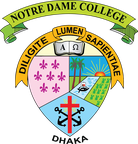
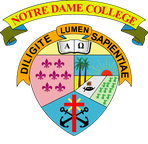
Footer, header and maps polish
- Footer about 60% of its old height (desktop 390 to 222 px, phone 840
  to 510 px): smaller logos, tighter spacing, shorter map, compact phone
  layout with the logos beside the club name.
- Copyright without the year; no street address under the club name.
- College crest is the new transparent version, with no tile behind it.
- Instagram handle shows without the @ (footer and Contact page).
- Footer map in dark mode on every page except NESS X and Photosphere,
  which keep their own tints.
- Header gets a soft shadow once you scroll, 40% of each page's own dark
  colour (navy, NESS blue, Photosphere navy).
- Phone menu button has no box around the three bars.
- The "Questions" sections on the NESS X and Join pages are removed.

Claude-Session: https://claude.ai/code/session_017bqCLVvJCNAmCL3csxSVkM

diff --git a/app/globals.css b/app/globals.css
@@ -936,7 +936,6 @@ body:has(.ness-three) .ice-btn::after { background: linear-gradient(105deg, tran
 /* Last pieces on this page: placeholders, the skip link and the college crest tile */
 body:has(.ness-three) .todo { color: #0a4a70; border-bottom-color: #0a4a70; }
 body:has(.ness-three) .skip-link { background: #0a4a70; color: #ebf5f9; }
-body:has(.ness-three) .crest-tile { background: #ebf5f9; }
 
 /* Register page form in the same three colours (Mahmud, 20 Nov 2026, trial) */
 body:has(.ness-three) main .form :is(input:not([type="checkbox"]):not([type="radio"]), select, textarea) {
@@ -1029,7 +1028,6 @@ body:has(.ps-four) .todo { color: #3ae3d1; border-bottom-color: #3ae3d1; }
 body:has(.ps-four) .site-header { --line: rgba(29, 95, 138, 0.6); --header-glass: rgba(11, 28, 51, 0.82); --header-menu: rgba(11, 28, 51, 0.5); --header-solid: #0b1c33; }
 body:has(.ps-four) .site-footer { background: rgba(11, 28, 51, 0.6); border-top-color: #1d5f8a; }
 @media (prefers-reduced-transparency: reduce) { body:has(.ps-four) .site-footer { background: #0b1c33; } }
-body:has(.ps-four) .crest-tile { background: #e2f2fc; }
 body:has(.ps-four) .skip-link { background: #3ae3d1; color: #0b1c33; }
 body:has(.ps-four) .ice-btn {
   background: linear-gradient(135deg, #e2f2fc 0%, #3ae3d1 50%, #e2f2fc 100%);
@@ -1105,3 +1103,46 @@ body:has(.ps-bg) .footer-map-pin::before {
   0% { transform: scale(0.6); opacity: 0.9; }
   100% { transform: scale(1.8); opacity: 0; }
 }
+
+/* ---------------------------------------------------------------------------------------------
+   23 Nov 2026 (Mahmud): footer at about 60% of its old height, college crest without its tile,
+   dark maps on every page except NESS X and Photosphere, a soft page-coloured shadow under the
+   header once you scroll, and a phone menu button without a box.
+   --------------------------------------------------------------------------------------------- */
+.site-footer { padding: var(--s5) 0 var(--s3); }
+.footer-grid { gap: var(--s4); }
+@media (min-width: 1000px) { .footer-grid { column-gap: var(--s7); } }
+.footer-about { gap: var(--s1); }
+.footer-marks { gap: var(--s3); margin-bottom: var(--s1); }
+.footer-marks .logo-mark { width: 40px; height: 40px; }
+.crest-tile { background: none; padding: 0; border-radius: 0; }
+.crest-tile img { height: 40px; }
+.footer-name { font-size: 0.9375rem; }
+.footer-grid ul { margin-top: var(--s1); }
+.footer-grid .contact-link { min-height: 2.25rem; }
+.footer-visit { gap: var(--s1); }
+.footer-map { margin-top: var(--s1); height: 7.5rem; }
+.footer-base { margin-top: var(--s3); }
+/* Phones: logos beside the club name, then the links, then the map */
+@media (max-width: 599px) {
+  .footer-about { grid-template-columns: auto 1fr; column-gap: var(--s3); align-items: center; }
+  .footer-about .footer-marks { grid-row: span 2; margin: 0; }
+  .footer-about p { margin: 0; }
+}
+
+/* Dark map by default; NESS X (.ness-three) and Photosphere (.ps-bg) keep their own tints. */
+.footer-map { background: #0f1e36; }
+.footer-map iframe { filter: invert(0.9) hue-rotate(180deg) brightness(0.9) contrast(0.95); }
+.footer-grid a.footer-map-open { background: #0f1e36; color: var(--sprout); border: 1px solid rgba(233, 238, 246, 0.2); box-shadow: 0 1px 6px rgba(0, 0, 0, 0.4); }
+.footer-grid a.footer-map-open:hover { background: #1b2d4a; color: var(--starlight); }
+
+/* Header shadow once scrolled: 40% of each page's own dark colour. */
+.site-header { --header-shadow: rgba(4, 10, 22, 0.4); }
+body:has(.ness-three) .site-header { --header-shadow: rgba(10, 74, 112, 0.4); }
+body:has(.ps-four) .site-header { --header-shadow: rgba(11, 28, 51, 0.4); }
+.site-header[data-solid="true"] { box-shadow: 0 6px 20px var(--header-shadow); }
+.site-header { transition: opacity 0.35s ease, background-color 0.3s ease, box-shadow 0.3s ease; }
+
+/* Phone menu button: no box around the three bars */
+.menu-btn { border: 0; }
+.menu-btn:focus-visible { outline: 2px solid var(--sprout); outline-offset: 2px; }

diff --git a/app/(site)/join/page.tsx b/app/(site)/join/page.tsx
@@ -1,5 +1,5 @@
 import Link from "next/link";
-import { type Locale, tr, path } from "@/lib/i18n";
+import { type Locale, path } from "@/lib/i18n";
 import { meta } from "@/lib/view";
 import { site } from "@/content/site";
 import { PageHead, FormButton, T } from "@/components/bits";
@@ -18,11 +18,6 @@ export async function generateMetadata() {
 export default async function Join() {
   const lang: Locale = "en";
   const en = lang === "en";
-  const faq = [
-    { q: { en: "When does joining open?", bn: "কখন যোগ দেওয়া যায়?" }, a: { en: "[Answer]", bn: "[উত্তর]" } },
-    { q: { en: "Is there a fee?", bn: "কোনো ফি আছে?" }, a: { en: "[Answer]", bn: "[উত্তর]" } },
-    { q: { en: "Can I work in a particular team?", bn: "নির্দিষ্ট কোনো দলে কাজ করা যায়?" }, a: { en: "[Answer, e.g. events, publications, IT, PR]", bn: "[উত্তর, যেমন ইভেন্ট, প্রকাশনা, আইটি, পিআর]" } },
-  ];
   return (
     <>
       <PageHead lang={lang} title={title} lead={lead} />
@@ -52,12 +47,6 @@ export default async function Join() {
           <div className="actions" style={{ marginTop: "var(--s5)" }}>
             <FormButton href={site.forms.join} lang={lang}>{en ? "Fill in the entry form" : "ভর্তি ফর্ম পূরণ করো"}</FormButton>
           </div>
-        </section>
-        <section aria-labelledby="jfaq">
-          <h2 id="jfaq" style={{ marginBottom: "var(--s3)" }}>{en ? "Questions" : "প্রশ্নোত্তর"}</h2>
-          {faq.map((f) => (
-            <details key={f.q.en}><summary>{tr(f.q, lang)}</summary><p><T text={f.a} lang={lang} /></p></details>
-          ))}
         </section>
         <section className="surface panel-band">
           <div>

diff --git a/components/Footer.tsx b/components/Footer.tsx
@@ -4,18 +4,16 @@ import { site } from "@/content/site";
 import { CollegeCrest, ContactLink, Logo } from "./bits";
 
 export default function Footer({ lang }: { lang: Locale }) {
-  const year = new Date().getFullYear();
   return (
     <footer className="site-footer">
       <div className="wrap footer-grid">
         <div className="footer-about">
           <div className="footer-marks">
-            <Logo size={64} alt={lang === "en" ? "Notre Dame Eco and Space Club logo" : "নটর ডেম ইকো অ্যান্ড স্পেস ক্লাবের লোগো"} />
+            <Logo size={40} alt={lang === "en" ? "Notre Dame Eco and Space Club logo" : "নটর ডেম ইকো অ্যান্ড স্পেস ক্লাবের লোগো"} />
             <CollegeCrest alt={lang === "en" ? "Notre Dame College, Dhaka crest" : "নটর ডেম কলেজ, ঢাকার প্রতীক"} />
           </div>
           <p className="footer-name">{tr(site.name, lang)}</p>
           <p className="small muted">{tr(ui.founded, lang)}</p>
-          <p className="small muted">{tr(site.address, lang)}</p>
         </div>
         <div>
           <p className="label">{tr(ui.follow, lang)}</p>
@@ -58,7 +56,7 @@ export default function Footer({ lang }: { lang: Locale }) {
         </div>
       </div>
       <div className="wrap footer-base">
-        <p className="small muted">© {year} {tr(site.name, lang)}</p>
+        <p className="small muted">© {tr(site.name, lang)}</p>
       </div>
     </footer>
   );

diff --git a/app/(site)/ness/page.tsx b/app/(site)/ness/page.tsx
@@ -4,7 +4,7 @@ import { meta } from "@/lib/view";
 import { site } from "@/content/site";
 import { ui } from "@/content/ui";
 import { getEvent, ness2027Banner } from "@/content/events";
-import { nessSchedule, showNessSchedule, nessFaq } from "@/content/club";
+import { nessSchedule, showNessSchedule } from "@/content/club";
 import { nessx, passes, passNote, registerWays, categories, categoryNote, winnersNote, soloSegments, teamSegments, specialSegments, programmes, organizers, type Segment } from "@/content/ness2027";
 import { ContactLink, ExternalLink, FormButton, Stars, T, RegisterButton } from "@/components/bits";
 
@@ -214,18 +214,6 @@ export default async function Ness() {
           </div>
         </section>
 
-        <section aria-labelledby="faq">
-          <h2 id="faq" style={{ marginBottom: "var(--s3)" }}>{en ? "Questions" : "প্রশ্নোত্তর"}</h2>
-          {nessFaq.map((f) => (
-            <details key={f.q.en}>
-              <summary>{tr(f.q, lang)}</summary>
-              <p><T text={f.a} lang={lang} /></p>
-            </details>
-          ))}
-          <p className="small muted" style={{ marginTop: "var(--s4)" }}>
-            {en ? "Still stuck? " : "আরও জানতে "}<Link href={path(lang, "/contact")}>{en ? "Contact the NESS team" : "NESS টিমের সঙ্গে যোগাযোগ করুন"}</Link>.
-          </p>
-        </section>
       </div>
     </>
   );

diff --git a/components/bits.tsx b/components/bits.tsx
@@ -51,7 +51,7 @@ export function CollegeCrest({ alt }: { alt: string }) {
   return (
     <span className="crest-tile">
       {/* eslint-disable-next-line @next/next/no-img-element */}
-      <img src={`${bp()}/brand/ndc-crest-72.png`} srcSet={`${bp()}/brand/ndc-crest-72.png 1x, ${bp()}/brand/ndc-crest-144.png 2x, ${bp()}/brand/ndc-crest-216.png 3x`} width={69} height={72} alt={alt} loading="lazy" />
+      <img src={`${bp()}/brand/ndc-crest-72.png`} srcSet={`${bp()}/brand/ndc-crest-72.png 1x, ${bp()}/brand/ndc-crest-144.png 2x, ${bp()}/brand/ndc-crest-216.png 3x`} width={74} height={72} alt={alt} loading="lazy" />
     </span>
   );
 }
@@ -255,7 +255,7 @@ export function ContactLink({ kind, value, lang, className }: { kind: ContactKin
   return (
     <a className={cls} href={value} target="_blank" rel="noopener noreferrer">
       <ContactIcon kind={kind} />{name}
-      <span>{kind === "instagram" ? `@${handle}` : handle}</span>
+      <span>{handle}</span>
       <span className="visually-hidden"> {tr(ui.newTab, lang)}</span>
     </a>
   );
